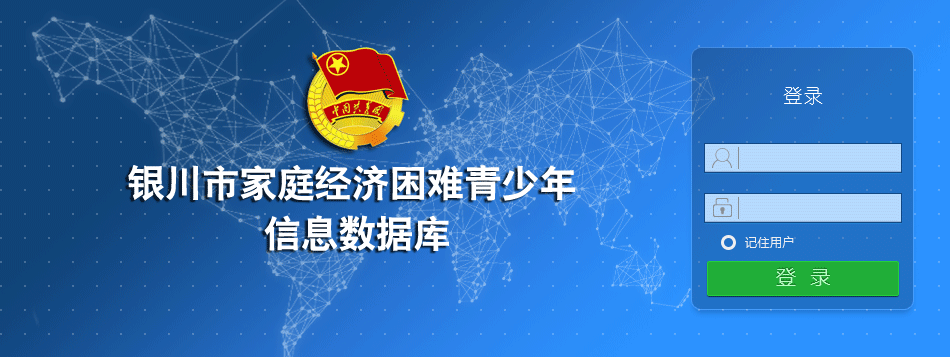
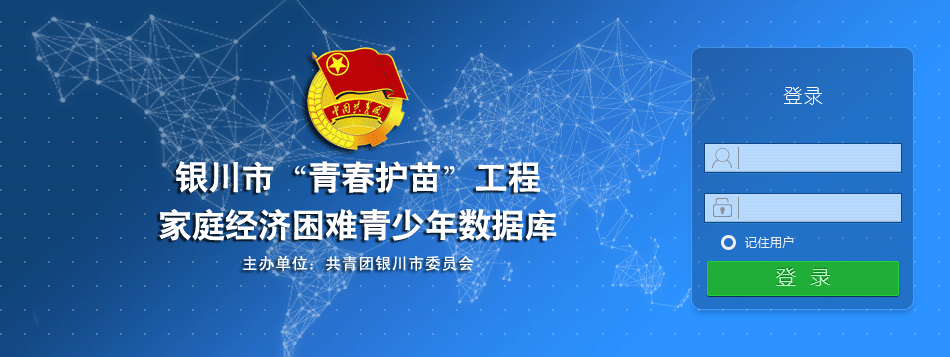
替换标题：更换登录背景、替换标题

Changed region(s): [[0.1221, 0.4314, 0.6105, 0.7703]]

diff --git a/web/src/main/webapp/index.html b/web/src/main/webapp/index.html
@@ -2,7 +2,7 @@
 <html>
 <head>
     <meta http-equiv="Content-Type" content="text/html; charset=utf-8"/>
-    <title>银川市家庭经济困难青少年信息数据库</title>
+    <title>“青春护苗”工程家庭经济困难青少年</title>
     <!-- Force latest IE rendering engine or ChromeFrame if installed -->
     <!--[if IE]>
     <meta http-equiv="X-UA-Compatible" content="IE=edge,chrome=1">
